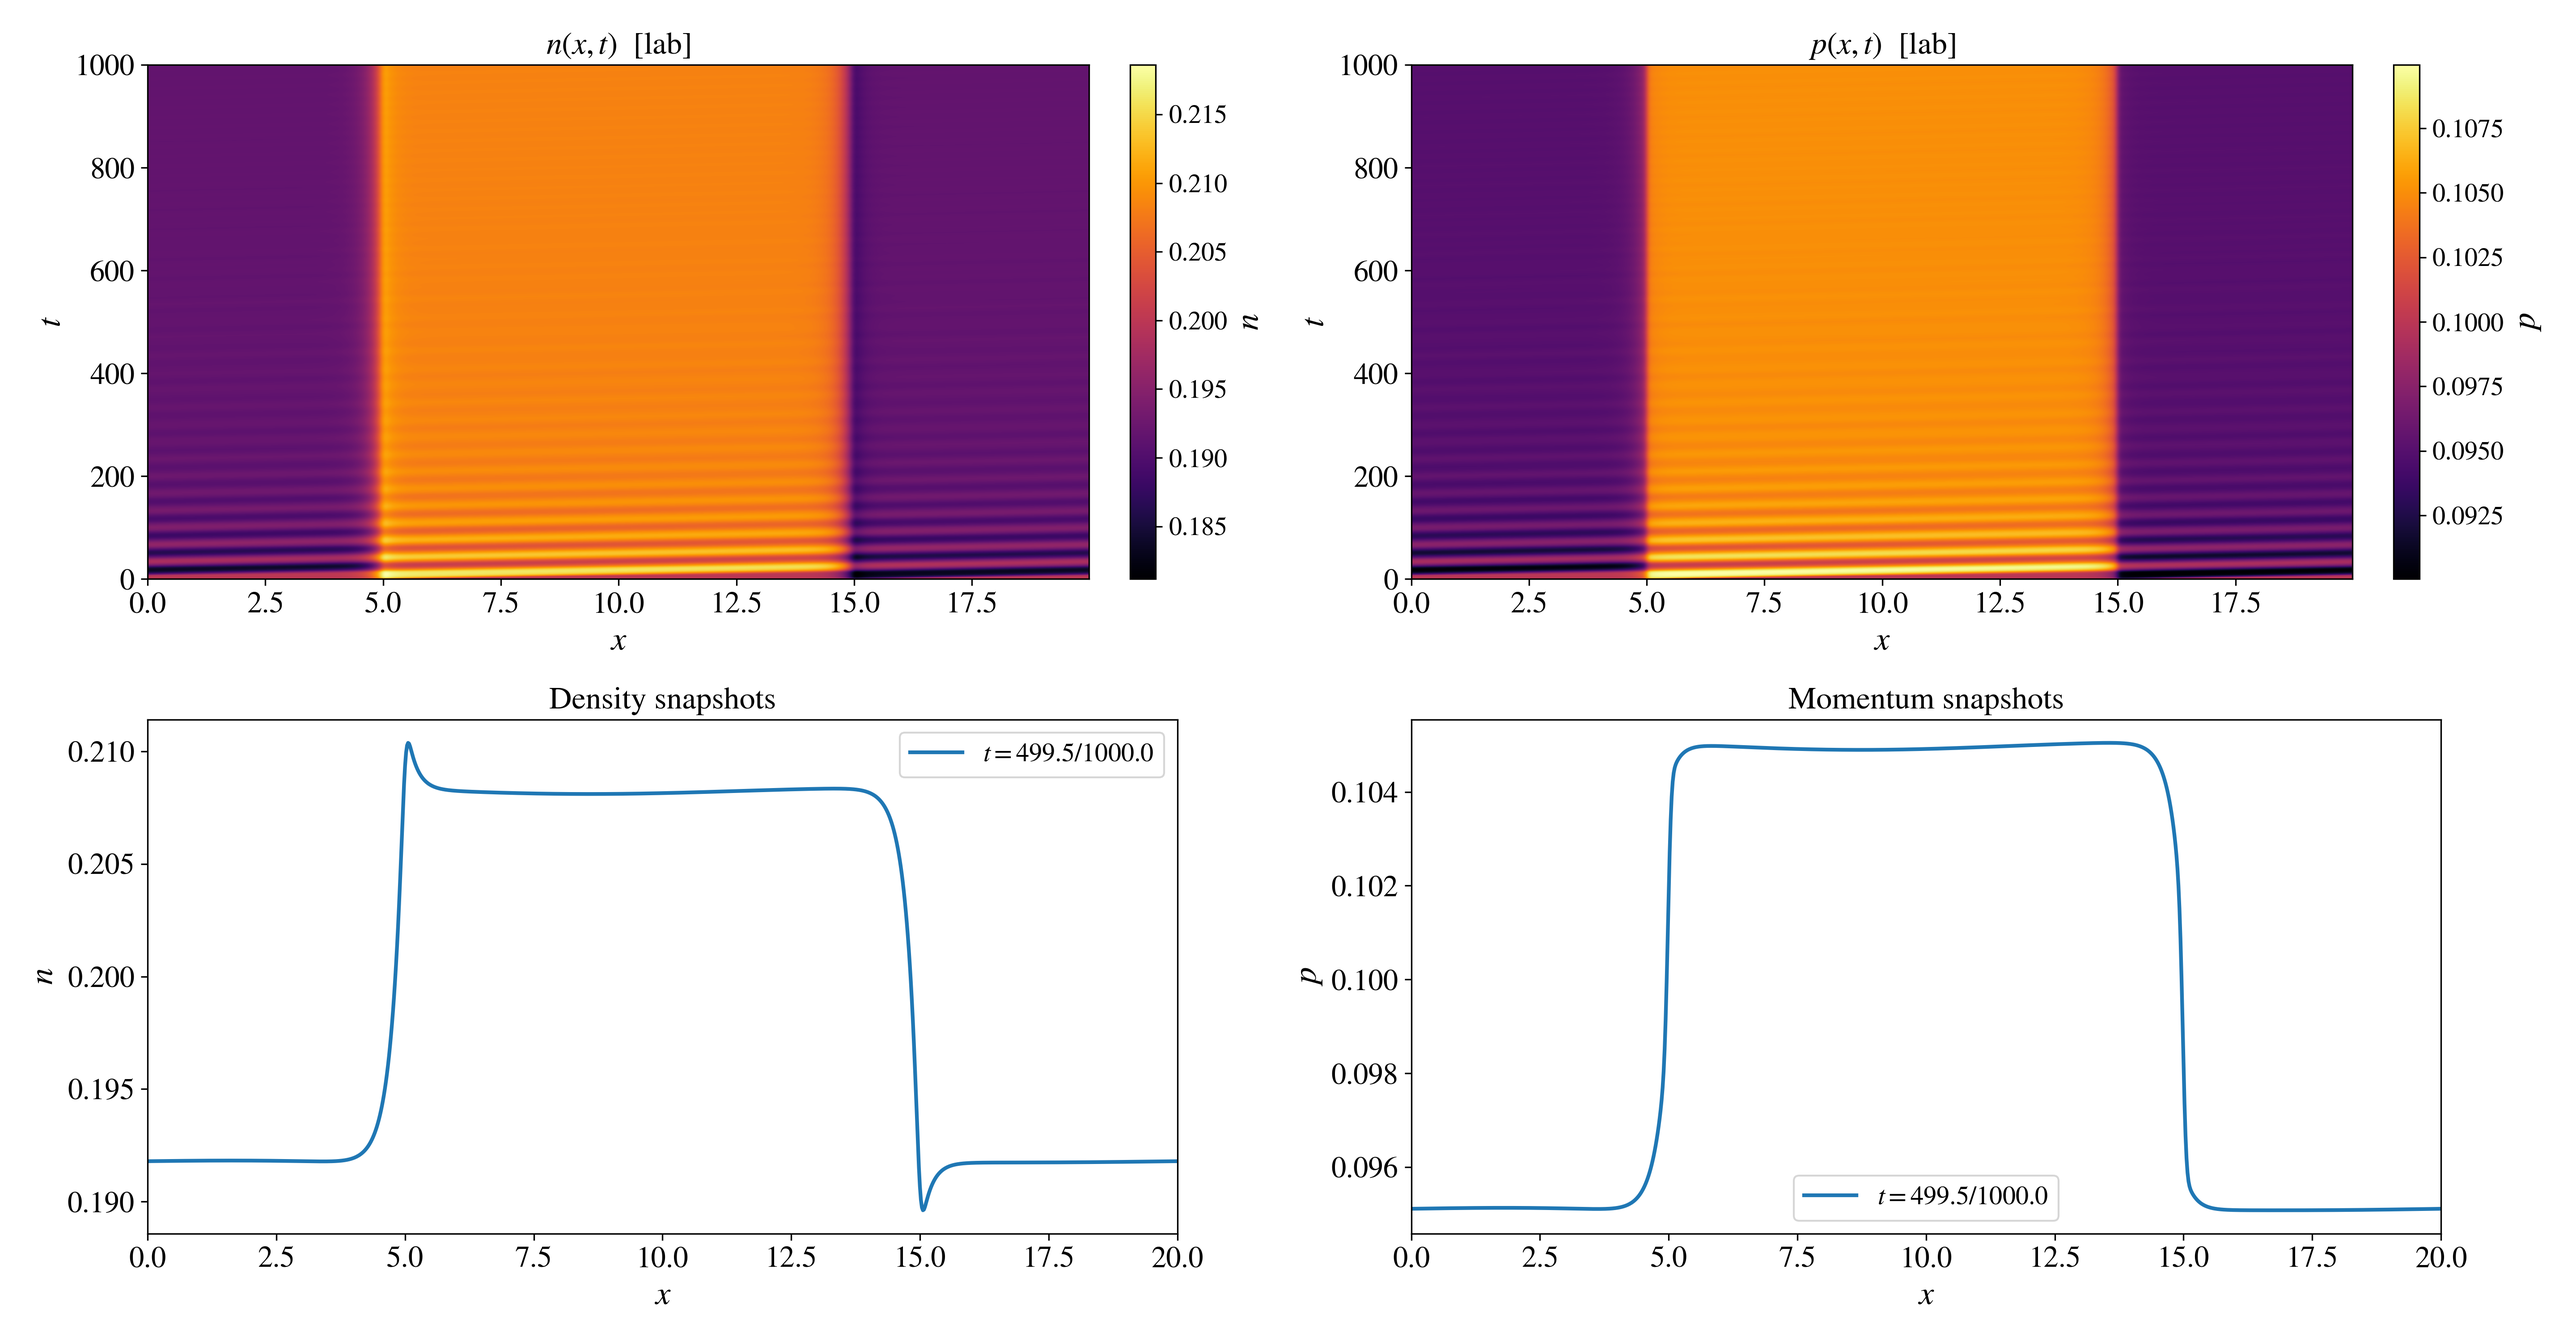
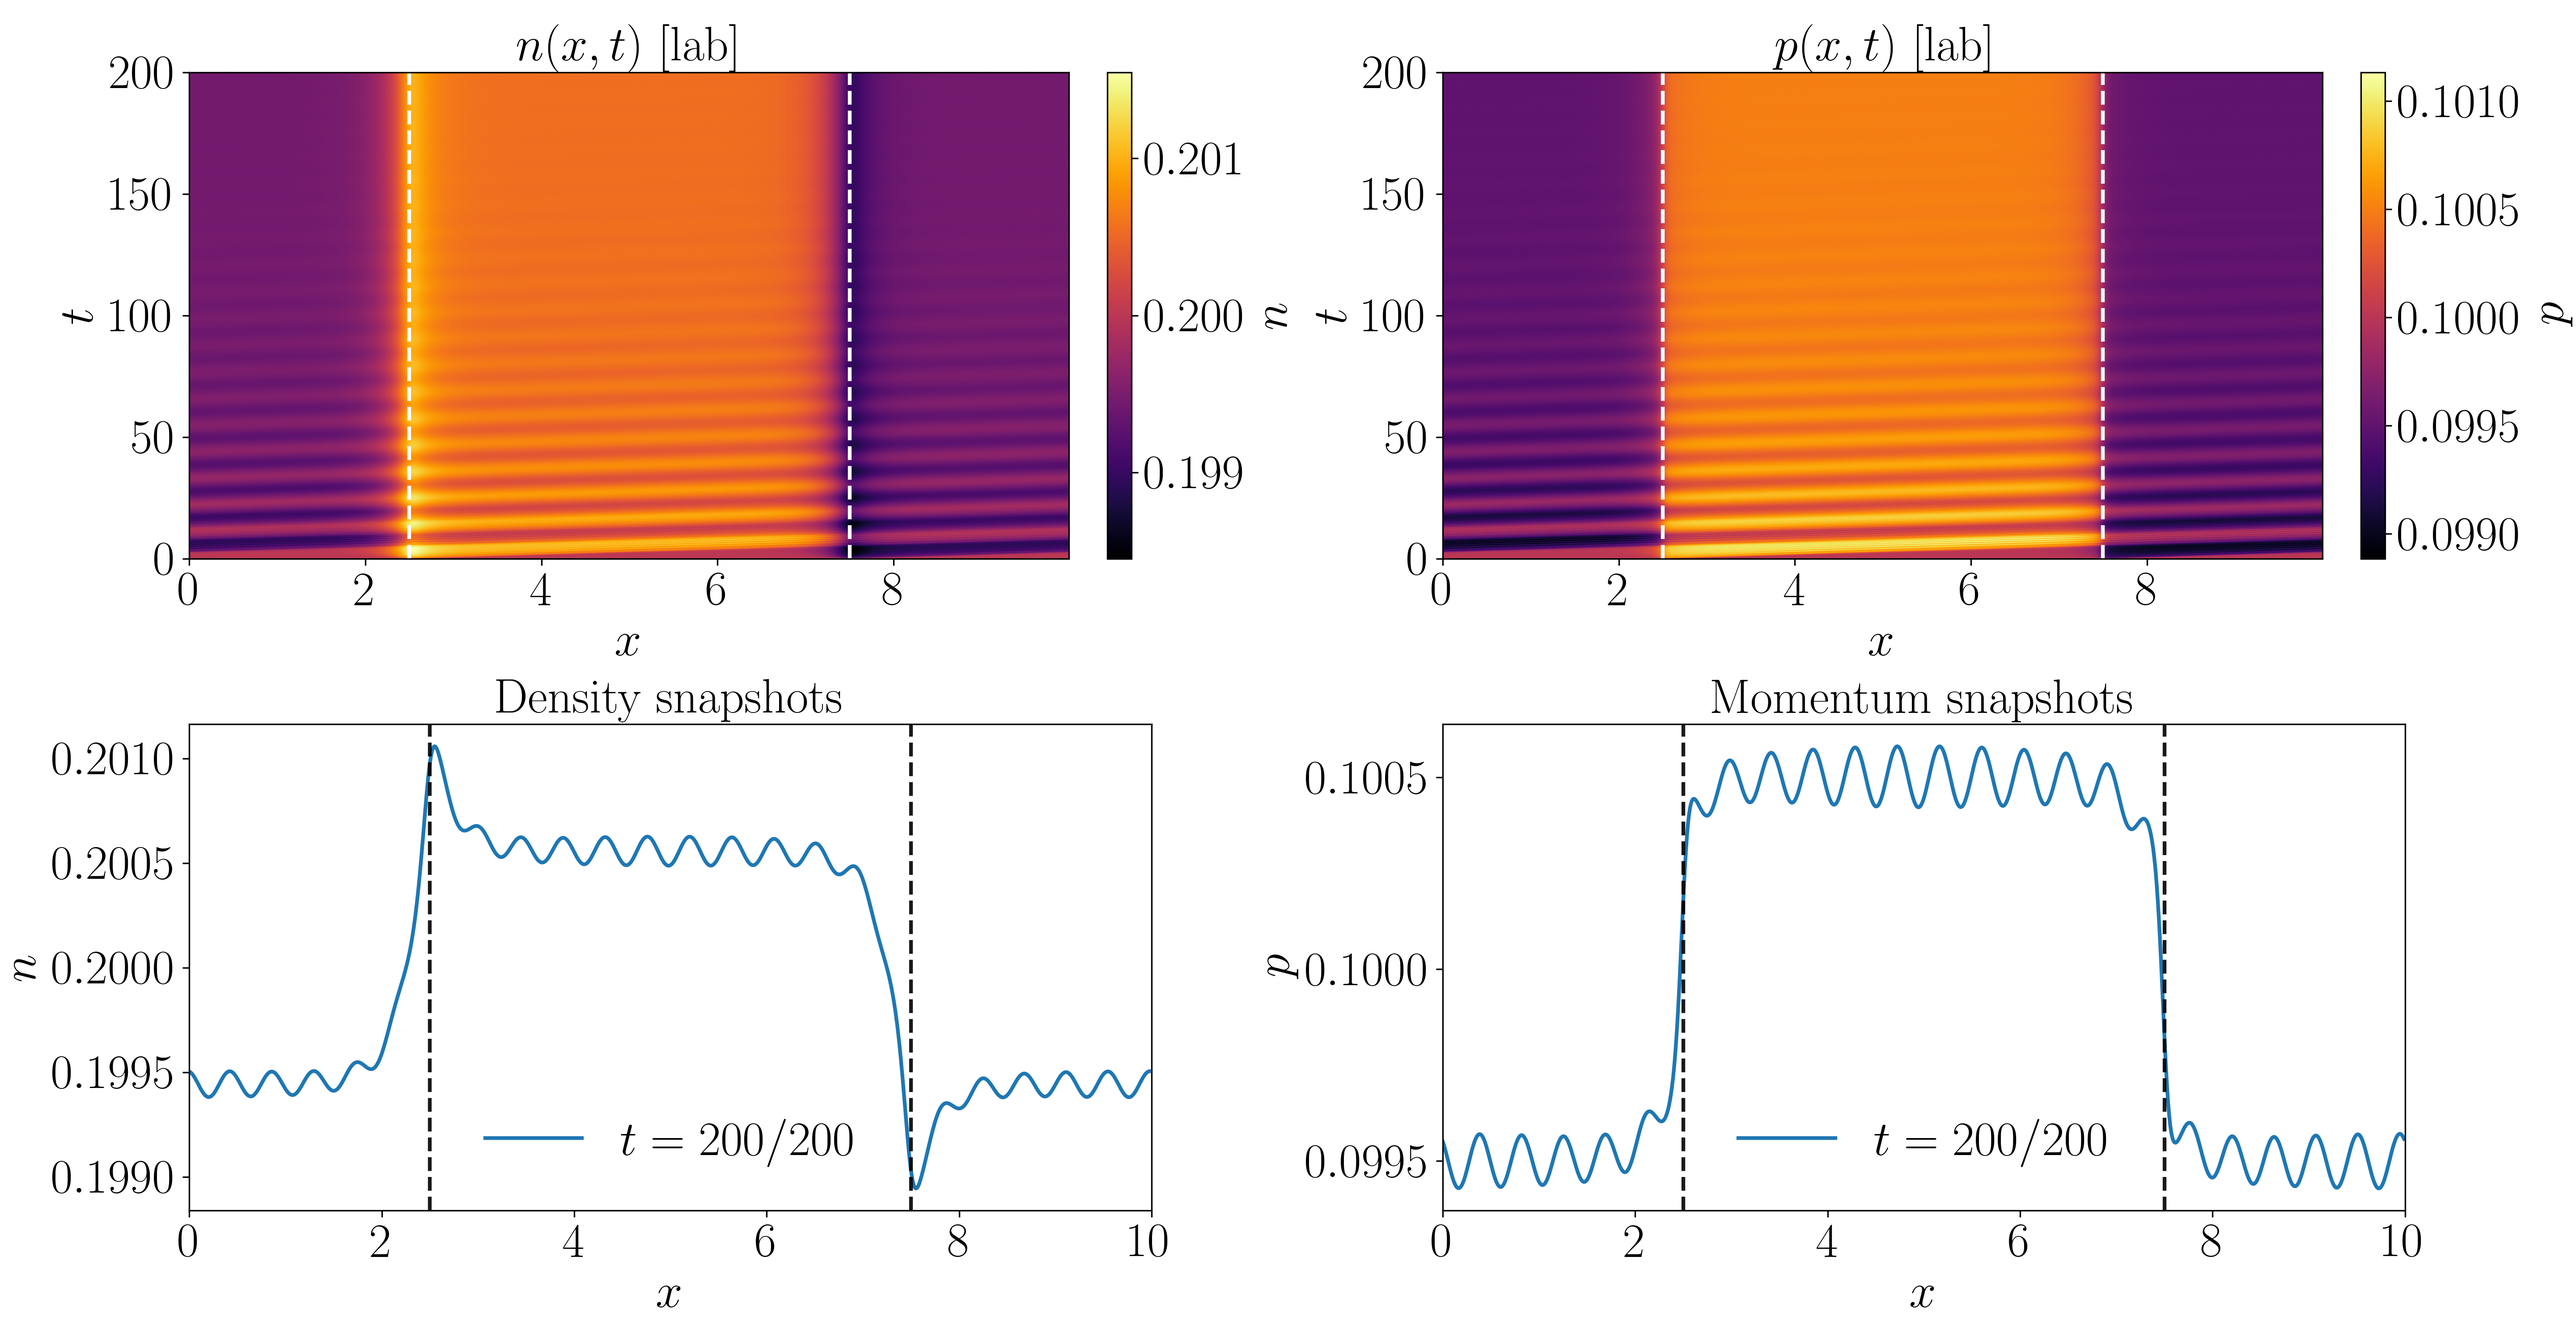
Optional TeX for better label rendering

diff --git a/dn vs u_d/plot_spacetime_from_npz.py b/dn vs u_d/plot_spacetime_from_npz.py
@@ -6,16 +6,30 @@ from matplotlib.widgets import Slider
 from matplotlib.widgets import Slider
 
 # Set matplotlib parameters to match main.py
-mpl.rcParams.update({
-    "text.usetex": False,          # use MathText (portable)
-    "font.family": "STIXGeneral",  # match math fonts
-    "font.size": 14,
-    "mathtext.fontset": "stix",
-    "axes.unicode_minus": False,   # proper minus sign
-    "axes.labelsize": 18,           # axis label text
-    "xtick.labelsize": 16,          # x-tick labels
-    "ytick.labelsize": 16,          # y-tick labels
-})
+# mpl.rcParams.update({
+#     "text.usetex": False,          # use MathText (portable)
+#     "font.family": "STIXGeneral",  # match math fonts
+#     "font.size": 14,
+#     "mathtext.fontset": "stix",
+#     "axes.unicode_minus": False,   # proper minus sign
+#     "axes.labelsize": 18,           # axis label text
+#     "xtick.labelsize": 16,          # x-tick labels
+#     "ytick.labelsize": 16,          # y-tick labels
+# })
+
+
+plt.rcParams['text.usetex'] = True
+plt.rcParams['font.family'] = 'serif'
+plt.rcParams["legend.frameon"] = False
+# Publication-ready font sizes
+plt.rcParams['font.size'] = 26
+plt.rcParams['axes.labelsize'] = 26
+plt.rcParams['axes.titlesize'] = 26
+plt.rcParams['xtick.labelsize'] = 26
+plt.rcParams['ytick.labelsize'] = 26
+plt.rcParams['legend.fontsize'] = 26
+plt.rcParams['figure.titlesize'] = 26
+
 
 # Load data
 data_file = r"D:\Рабочая папка\GitHub\electronic-kapitsa-waves\dn vs u_d\multiple_u_d\w=0.14_modes_3_5_7_L10(lambda=0.0, sigma=-1.0, seed_amp_n=0.0, seed_amp_p=0.0)_Dn=0p05_Dp=0p01\out_drift_ud0p5000\data_m07_ud0p5000_ud0.5.npz"
@@ -47,31 +61,37 @@ ax3, ax4 = axes[1, 0], axes[1, 1]  # Second row: snapshots
 # Plot n(x,t) in first panel (top left)
 im1 = ax1.imshow(n_t.T, origin="lower", aspect="auto",
                  extent=extent, cmap="inferno")
+ax1.axvline(2.5, color='white', linestyle='--', linewidth=2, alpha=1.0)
+ax1.axvline(7.5, color='white', linestyle='--', linewidth=2, alpha=1.0)
 ax1.set_xlabel("$x$")
 ax1.set_ylabel("$t$")
 ax1.set_title(f"$n(x,t)$  [lab]")
 cbar1 = plt.colorbar(im1, ax=ax1, label="$n$", fraction=0.046, pad=0.04)
-cbar1.ax.tick_params(labelsize=14)
+cbar1.ax.tick_params(labelsize=26)
 
 # Plot p(x,t) in second panel (top right)
 im2 = ax2.imshow(p_t.T, origin="lower", aspect="auto",
                  extent=extent, cmap="inferno")
+ax2.axvline(2.5, color='white', linestyle='--', linewidth=2, alpha=1.0)
+ax2.axvline(7.5, color='white', linestyle='--', linewidth=2, alpha=1.0)
 ax2.set_xlabel("$x$")
 ax2.set_ylabel("$t$")
 ax2.set_title(f"$p(x,t)$  [lab]")
 cbar2 = plt.colorbar(im2, ax=ax2, label="$p$", fraction=0.046, pad=0.04)
-cbar2.ax.tick_params(labelsize=14)
+cbar2.ax.tick_params(labelsize=26)
 
 # Plot n snapshots (bottom left)
-percentages = [50]
+percentages = [100]
 colors = plt.cm.tab10(np.linspace(0, 1, len(percentages)))
 lines_n = []
 for i, pct in enumerate(percentages):
     idx = int((pct / 100) * (len(t) - 1))
     idx = min(idx, len(t) - 1)
-    line_n, = ax3.plot(x, n_t[:, idx], label=f"$t={t[idx]:.1f}/{t_final:.1f}$", 
+    line_n, = ax3.plot(x, n_t[:, idx], label=f"$t={t[idx]:.0f}/{t_final:.0f}$", 
             color=colors[i], linewidth=2)
     lines_n.append(line_n)
+ax3.axvline(2.5, color='black', linestyle='--', linewidth=2, alpha=0.9)
+ax3.axvline(7.5, color='black', linestyle='--', linewidth=2, alpha=0.9)
 ax3.legend()
 ax3.set_xlabel("$x$")
 ax3.set_ylabel("$n$")
@@ -83,16 +103,18 @@ lines_p = []
 for i, pct in enumerate(percentages):
     idx = int((pct / 100) * (len(t) - 1))
     idx = min(idx, len(t) - 1)
-    line_p, = ax4.plot(x, p_t[:, idx], label=f"$t={t[idx]:.1f}/{t_final:.1f}$", 
+    line_p, = ax4.plot(x, p_t[:, idx], label=f"$t={t[idx]:.0f}/{t_final:.0f}$", 
             color=colors[i], linewidth=2)
     lines_p.append(line_p)
+ax4.axvline(2.5, color='black', linestyle='--', linewidth=2, alpha=0.9)
+ax4.axvline(7.5, color='black', linestyle='--', linewidth=2, alpha=0.9)
 ax4.legend()
 ax4.set_xlabel("$x$")
 ax4.set_ylabel("$p$")
 ax4.set_title(f"Momentum snapshots")
 ax4.set_xlim(0, L)
 
-plt.tight_layout()
+plt.tight_layout(pad=0.5, h_pad=0.3, w_pad=0.3)
 
 # Save figure
 output_file = "spacetime_panel_from_data.png"
@@ -114,7 +136,7 @@ except:
 ax_slider = plt.axes([0.07, 0.0, 1, 1])
 ax_slider.set_facecolor('white')
 ax_slider.axis('off')
-slider = Slider(ax_slider, '%', 0, 100, valinit=50, valstep=0.1)
+slider = Slider(ax_slider, '%', 0, 100, valinit=100, valstep=0.1)
 
 def update_snapshots(val):
     pct = slider.val
